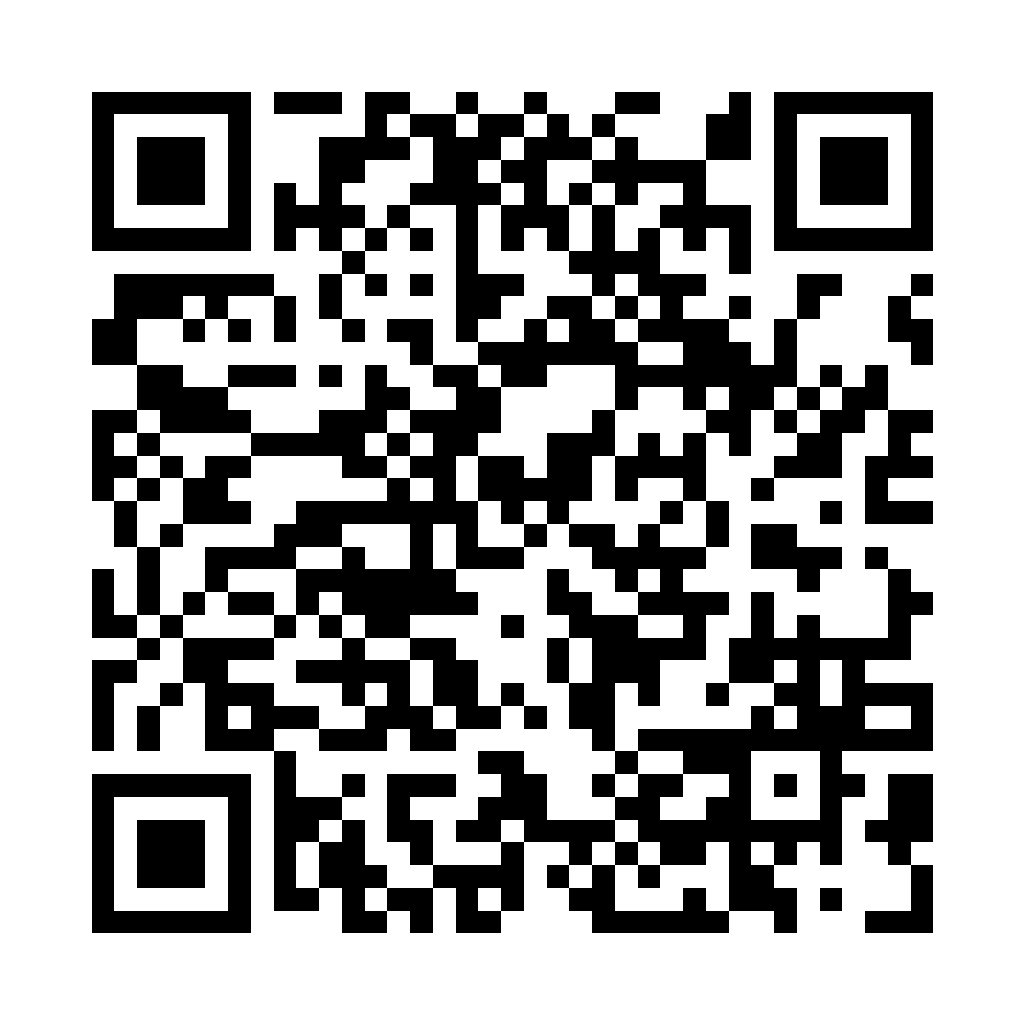
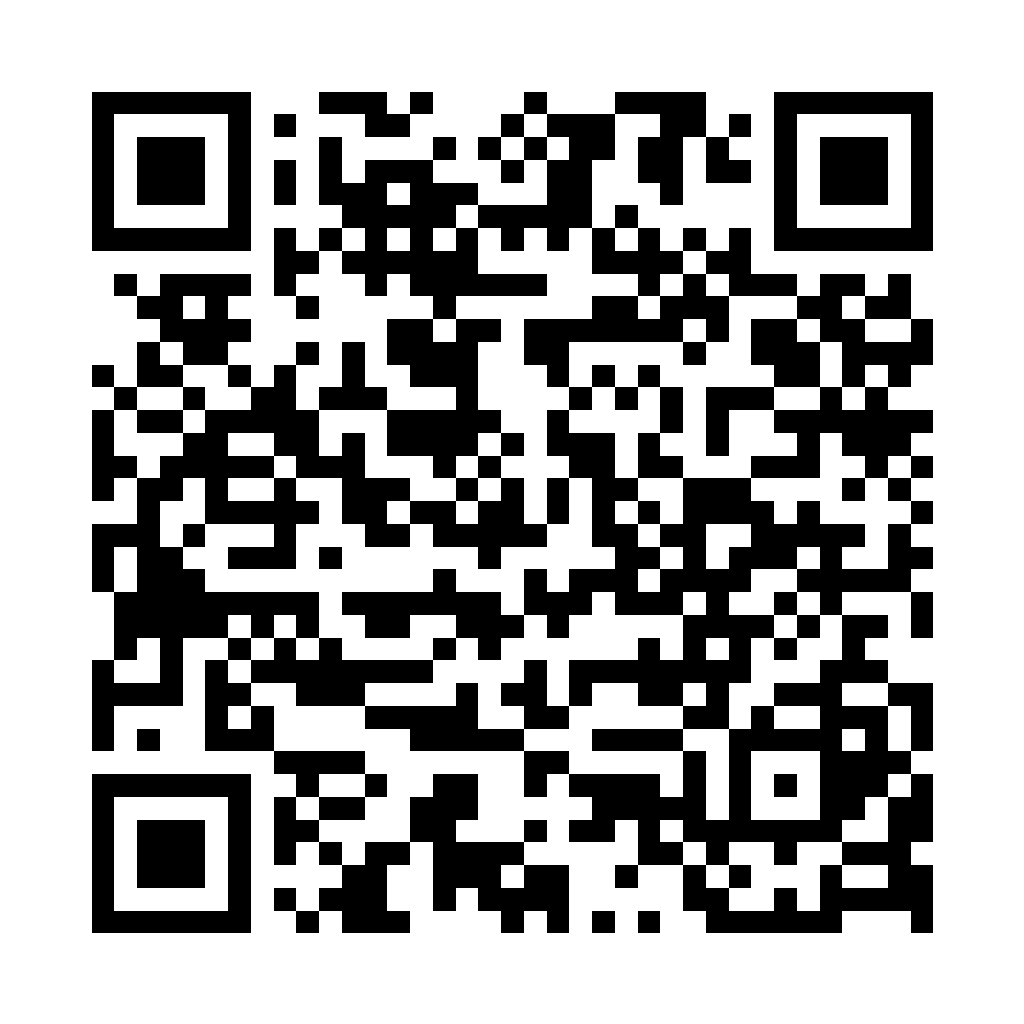
Fix canonical portfolio URLs, regenerate scannable QR codes, and clean docs

Changed region(s): [[0.0625, 0.0625, 0.9375, 0.9375]]

diff --git a/index.html b/index.html
@@ -15,17 +15,17 @@
 
     <!-- Open Graph / Facebook -->
     <meta property="og:type" content="website" />
-    <meta property="og:url" content="https://princegour248-art.github.io/portfolio" />
+    <meta property="og:url" content="https://princegour248-art.github.io/prince-s-portfolio/" />
     <meta property="og:title" content="Prince Gour — AI Enthusiast & Software Developer" />
     <meta property="og:description" content="Personal portfolio of Prince Gour: BCA student, software developer, and AI enthusiast. Real projects, technical skills, and downloadable ATS resume." />
-    <meta property="og:image" content="/portfolio-qr.png" />
+    <meta property="og:image" content="./portfolio-qr.png" />
 
     <!-- Twitter -->
     <meta property="twitter:card" content="summary" />
-    <meta property="twitter:url" content="https://princegour248-art.github.io/portfolio" />
+    <meta property="twitter:url" content="https://princegour248-art.github.io/prince-s-portfolio/" />
     <meta property="twitter:title" content="Prince Gour — AI Enthusiast & Software Developer" />
     <meta property="twitter:description" content="Personal portfolio of Prince Gour: BCA student, software developer, and AI enthusiast." />
-    <meta property="twitter:image" content="/portfolio-qr.png" />
+    <meta property="twitter:image" content="./portfolio-qr.png" />
 
     <!-- Google Fonts: Inter Variable & JetBrains Mono -->
     <link rel="preconnect" href="https://fonts.googleapis.com" />

diff --git a/src/data/portfolioData.ts b/src/data/portfolioData.ts
@@ -98,7 +98,7 @@ export const PORTFOLIO_CONFIG = {
       availability: "Open to Internships & Collaborative Projects"
     },
     meta: {
-      canonicalUrl: "https://princegour248-art.github.io/prince-gour-portfolio/",
+      canonicalUrl: "https://princegour248-art.github.io/prince-s-portfolio/",
       title: "Prince Gour | AI Enthusiast & Software Developer Portfolio",
       description: "Official portfolio of Prince Gour: BCA student, software developer, and AI enthusiast showcasing real projects, technical skills, certifications, and resume."
     }
@@ -144,8 +144,8 @@ export const PORTFOLIO_CONFIG = {
 
   projects: [
     {
-      id: "Alpha AI",
-      title: "Alpha — AI Student Assistant",
+      id: "master-sahab",
+      title: "Master Sahab — AI Student Assistant",
       tagline: "Production-grade AI study companion engineered for conceptual clarity, exam preparation, and study management.",
       description: "A complete full-stack academic assistant that synthesizes complex textbook topics into step-by-step analogies, active recall flashcards, study schedules, and instant practice quizzes. Architected with a local-first resilience model and resilient fallback pipelines.",
       category: "AI & Web",

diff --git a/src/components/QrModal.tsx b/src/components/QrModal.tsx
@@ -9,7 +9,7 @@ interface QrModalProps {
 
 export const QrModal: React.FC<QrModalProps> = ({ isOpen, onClose }) => {
   const [copied, setCopied] = useState(false);
-  const liveUrl = 'https://princegour248-art.github.io/prince-gour-portfolio/';
+  const liveUrl = 'https://princegour248-art.github.io/prince-s-portfolio/';
   const qrImgSrc = `${import.meta.env.BASE_URL}portfolio-qr.png`;
 
   // Close on Escape key

diff --git a/README.md b/README.md
@@ -1,4 +1,3 @@
-<<<<<<< HEAD
 # Prince Gour — Developer Portfolio + Resume + QR Code
 
 A production-ready, minimal, professional personal developer portfolio for **Prince Gour** (AI Enthusiast | Aspiring Software Developer | Web Developer).
@@ -150,7 +149,7 @@ node scripts/verifyPortfolio.cjs
 ## 🌐 8. Free Deployment Instructions
 
 ### Option A: Free Vercel Deployment (Recommended — 2 Minutes)
-1. Push your repository to GitHub (`https://github.com/princegour248-art/portfolio`).
+1. Push your repository to GitHub (`https://github.com/princegour248-art/prince-s-portfolio`).
 2. Go to [Vercel](https://vercel.com) and click **"Add New Project"**.
 3. Import your `portfolio` repository.
 4. Keep the default settings (Framework: Vite, Root: `./`, Build command: `npm run build`, Output: `dist`).
@@ -164,7 +163,7 @@ node scripts/verifyPortfolio.cjs
 4. Set **Source** to **GitHub Actions**.
 5. The pre-configured `.github/workflows/deploy.yml` workflow will automatically trigger, build the website, generate the resume PDF, and deploy your portfolio to:
    ```
-   https://princegour248-art.github.io/portfolio/
+   https://princegour248-art.github.io/prince-s-portfolio/
    ```
 6. The generated QR codes automatically encode this canonical URL so scanning them directs immediately to your live site!
 
@@ -181,6 +180,3 @@ node scripts/verifyPortfolio.cjs
   ```bash
   npm run generate:qr https://your-custom-portfolio-url.com
   ```
-=======
-# prince-gour-portfolio
->>>>>>> 5f61a25c9a42145cacffb6c1b5b3ba91984159c8
